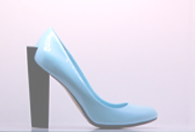
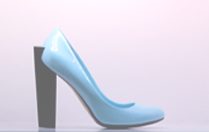
Updated graphics
1. Changes the home button to already clicked
2. Fixed the image size of the shoes images
3. Added the updates

Changed region(s): [[0.1231, 0.2121, 0.4615, 1.0], [0.6769, 0.8182, 0.8308, 0.9697], [0.6154, 0.7879, 0.6769, 0.8182]]

diff --git a/shoestore.html b/shoestore.html
@@ -49,7 +49,7 @@
 					<div class="content">
 						<img id="navbar" src="buttons/nav_graphic.png" alt=""/>
 						<ul>
-							<li><a href="#"><img src="buttons/home.png" onmouseover="this.src='buttons/home_hover.png'" onmouseout="this.src='buttons/home.png'" alt="home"/></a></li>
+							<li><a href="#"><img src="buttons/home_hover.png" onmouseover="this.src='buttons/home_hover.png'" onmouseout="this.src='buttons/home_hover.png'" alt="home"/></a></li>
 							<li><a href="#"><img src="buttons/Women.png" onmouseover="this.src='buttons/Women_hover.png'" onmouseout="this.src='buttons/Women.png'" alt="Women"/></a></li>
 							<li><a href="#"><img src="buttons/Men.png" onmouseover="this.src='buttons/Men_hover.png'" onmouseout="this.src='buttons/Men.png'" alt="Men"/></a></li>
 							<li><a href="#"><img src="buttons/Girls.png" onmouseover="this.src='buttons/Girls_hover.png'" onmouseout="this.src='buttons/Girls.png'" alt="Girls"/></a></li>
@@ -61,7 +61,10 @@
 
 				<!--Area where the Updates and Blogging go-->
 				<div class="col gu2">
-					<h1>Column1</h1>
+					<!--<h1>Where the Updates go</h1>-->
+					<h1 id="UPDATE ">Update  2013/05/25</h1>
+					<h2>Summer Sale! 10% to 15% off</h2>
+					<p>Summer is just around the corner and our new stock has arrived just in time. We have a Varity of new sandals as well as other trendy shoes to meet your needs. Whether you want to go to the beach or take a stroll down the shopping district, why not come down to our store and take a look?</p>
 				</div><!--Closes the gu2 tag-->
 
 				<!--Area where the actual items go-->
@@ -69,49 +72,51 @@
 					<h1>New Arrivals</h1>
 					<!--First column for items-->
 					<div class="col gu1_5">
-						<h1>Column1</h1>
+						<!--<h1>Column1</h1>-->
 						<div class="col gu1">
 							<!--<h1>This us where the image go</h1>-->
-							<a href="#"><img src="images/shoe1.png" onmouseover="this.src='images/shoe1_hover.png'" onmouseout="this.src='images/shoe1.png'" alt="home"/></a>
+							<a href="#"><img src="images/shoe1.png" onmouseover="this.src='images/shoe1_hover.png'" onmouseout="this.src='images/shoe1.png'" alt="shoe1"/></a>
 						</div><!--Closes the column for image-->
 						<div class="col gu1">
 							<!--<h1>This us where the Price go</h1>-->
-							<h1>Black Sandals</h1>
-							<h1>$45.00</h1>
+							<h3>Black Sandals</h3>
+							<h3>$45.00</h3>
 						</div><!--Closes the column for price-->
 						<div class="col gu1">
 							<!--<h1>This us where the Add to Cart go</h1>-->
-							<h1>This us where the add to cart go</h1>
+							<a href="#"><img src="images/Add to Cart.png" onmouseover="this.src='images/Add to Cart_hover.png'" onmouseout="this.src='images/Add to Cart.png'" alt="cart"/></a>
 						</div><!--Closes the column for add to cart-->
 					</div><!--Closes the first column for items-->
 
 					<!--Second column for items-->
 					<div class="col gu1_5">
-						<h1>Column2</h1>
+						<!--<h1>Column2</h1>-->
 						<div class="col gu1">
 							<!--<h1>This us where the image go</h1>-->
-							<a href="#"><img src="images/shoe2.png" onmouseover="this.src='images/shoe2_hover.png'" onmouseout="this.src='images/shoe2.png'" alt="home"/></a>
+							<a href="#"><img src="images/shoe2.png" onmouseover="this.src='images/shoe2_hover.png'" onmouseout="this.src='images/shoe2.png'" alt="shoe2"/></a>
 						</div><!--Closes the column for image-->
 						<div class="col gu1">
-							<h1>This us where the Price go</h1>
+							<h3>Blue high heels</h3>
+							<h3>$90.00</h3>
 						</div><!--Closes the column for price-->
 						<div class="col gu1">
-							<h1>This us where the add to cart go</h1>
+							<a href="#"><img src="images/Add to Cart.png" onmouseover="this.src='images/Add to Cart_hover.png'" onmouseout="this.src='images/Add to Cart.png'" alt="cart"/></a>
 						</div><!--Closes the column for add to cart-->
 					</div><!--Closes the second column-->
 
 					<!--Third column for items-->
 					<div class="col gu1_5">
-						<h1>Column3</h1>
+						<!--<h1>Column3</h1>-->
 						<div class="col gu1">
 							<!--<h1>This us where the image go</h1>-->
-							<a href="#"><img src="images/shoe3.png" onmouseover="this.src='images/shoe3_hover.png'" onmouseout="this.src='images/shoe3.png'" alt="home"/></a>
+							<a href="#"><img src="images/shoe3.png" onmouseover="this.src='images/shoe3_hover.png'" onmouseout="this.src='images/shoe3.png'" alt="shoe3"/></a>
 						</div><!--Closes the column for image-->
 						<div class="col gu1">
-							<h1>This us where the Price go</h1>
+							<h3>Men's black sandal</h3>
+							<h3>$40.00</h3>
 						</div><!--Closes the column for price-->
 						<div class="col gu1">
-							<h1>This us where the Add to cart go</h1>
+							<a href="#"><img src="images/Add to Cart.png" onmouseover="this.src='images/Add to Cart_hover.png'" onmouseout="this.src='images/Add to Cart.png'" alt="cart"/></a>
 						</div><!--Closes the column for add to cart-->
 					</div><!--Closes the third column-->
 				</div><!--End the gu4 class-->

diff --git a/shoestore.css b/shoestore.css
@@ -28,6 +28,36 @@ h1{
 	font-size: 20px;
 	font-weight: bold;
 	font-family: verdana, san-serif;
+	margin-bottom: 5px;
+	color: white;
+}
+
+
+h2{
+	font-size: 15px;
+	text-align: center;
+	font-weight: bold;
+	font-family: verdana, san-serif;
+	margin-bottom: 8px;
+	color: white;
+}
+
+h3{
+	font-size: 15px;
+	text-align: left;
+	font-weight: bold;
+	font-family: verdana, san-serif;
+	margin-bottom: 5px;
+	color: white;
+}
+
+
+p {
+	font-size: 12px;
+	font-family: verdana, san-serif;
+	text-align: left;
+	color: white;
+	line-height: 18px;
 }
 
 .page{
@@ -80,6 +110,7 @@ h1{
 .gu1{
 	width:50%;
 	margin-left: 15%;
+	padding-bottom: 5px;
 	border:1px solid blue;/*Grid visualization guide. Remove when publish*/
 }
 
@@ -91,6 +122,9 @@ h1{
 
 .gu2{
 	width:20%;
+	padding-left: 2%;
+	padding-right: 1%;
+	padding-top: 10px;
 	border:1px solid blue;/*Grid visualization guide. Remove when publish*/
 }
 
